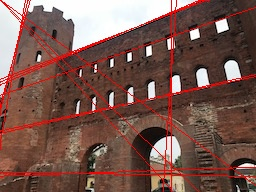
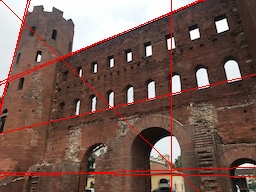
fix 046

diff --git a/q41_50/046.py b/q41_50/046.py
@@ -18,7 +18,7 @@ if __name__ == '__main__':
     cv2.imwrite("q41_50/046a.jpg", canny_edge)
     cv2.destroyAllWindows()
 
-    out = lib4150.Hough(img, canny_edge, 20)
+    out = lib4150.Hough(img, canny_edge, 10)
 
     cv2.imshow("imori", out)
     cv2.waitKey(0)
